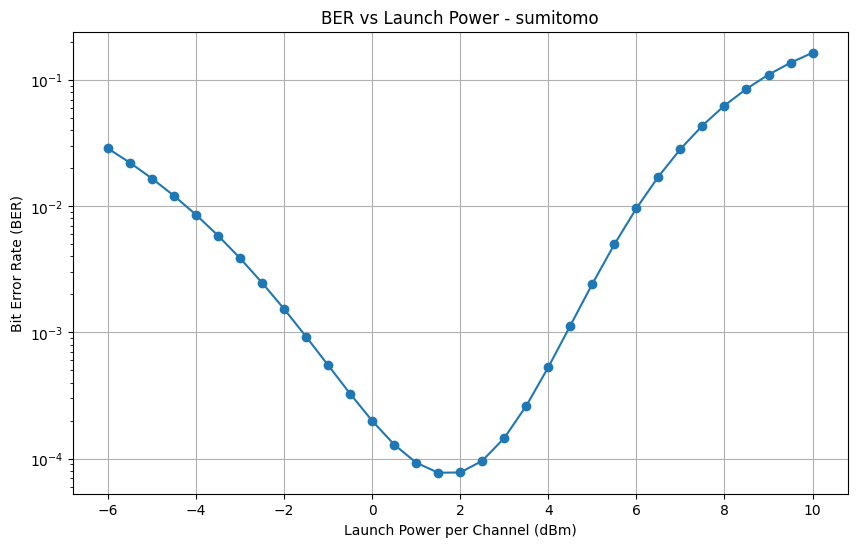
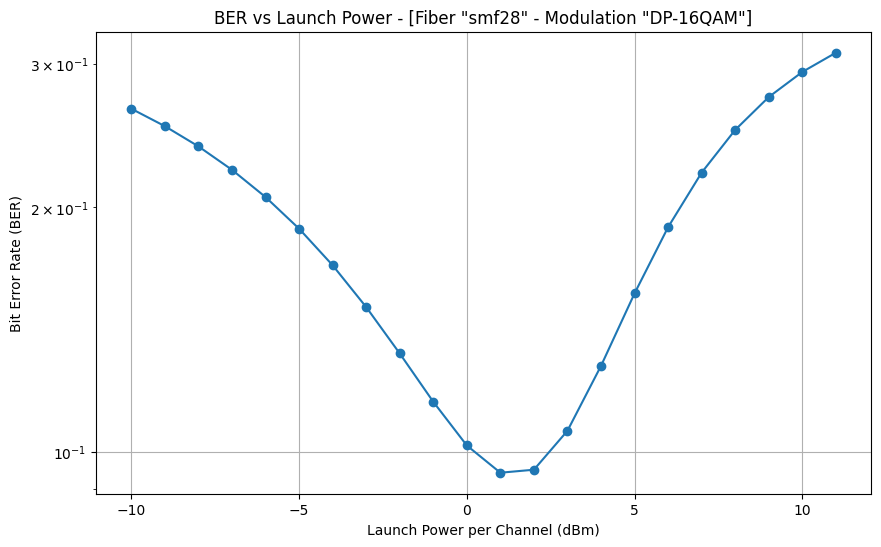
V1

diff --git a/templates/index.html b/templates/index.html
@@ -90,6 +90,7 @@
     <select name="modulation_type" id="modulation_type" onchange="setModulationDefaults()">
       <option value="DP-QPSK" selected>DP-QPSK</option>
       <option value="DP-8QAM">DP-8QAM</option>
+      <option value="DP-16QAM">DP-16QAM</option>
       <option value="Custom">Custom</option>
     </select>
 
@@ -216,6 +217,28 @@
         ideal_ber: 0.001,
         power_start: -10,
         power_stop: 10,
+        power_step: 1,
+        n_channels: 20,
+        optical_link_length: 8340000,
+        channel_rate: 100000000000,
+        amplifier_noise_figure: 9,
+        amplifier_distance_spacing: 60000,
+        channel_spacing: 100000000000,
+        central_frequency: 193410000000000,
+        R_bit_rate: 56000000000,
+        M: 2,
+        GEDFA: 9,
+        leff_a: 321700,
+        band_noise: 12500000000,
+        launch_booster_power_dB: 16,
+        mux_attenuation: 8,
+        demux_attenuation: 8,
+        potencia_mw_lancamento_booster: 39.8
+      },
+      "DP-16QAM": {
+        ideal_ber: 0.001,
+        power_start: -10,
+        power_stop: 11,
         power_step: 1,
         n_channels: 20,
         optical_link_length: 8340000,

diff --git a/app.py b/app.py
@@ -70,7 +70,7 @@ def calculate():
        # --- Gerar gráfico ---
     fig, ax = plt.subplots(figsize=(10, 6))
     ax.plot(power_per_channel, ber, marker='o')
-    ax.set_title(f'BER vs Launch Power - {fiber_type}')
+    ax.set_title(f'BER vs Launch Power - [Fiber "{fiber_type}" - Modulation "{modulation_type}"]')
     ax.set_xlabel('Launch Power per Channel (dBm)')
     ax.set_ylabel('Bit Error Rate (BER)')
     ax.set_yscale('log')

diff --git a/README.md b/README.md
@@ -9,8 +9,7 @@ This project is intended to help analyze Optical links' characteristics:
 - GNLI0
 
 ## Quick Start
-There is already sample data for you to starting using standard parameters of fiber and modulation at sample_data.py
+There is already sample data for you to starting using standard parameters of fiber and modulation at index.html
 It can be easily run by :
-    * using the command ```python main.py``` 
+    * using the command ```python app.py``` 
 
-*Documentation under construction...*
